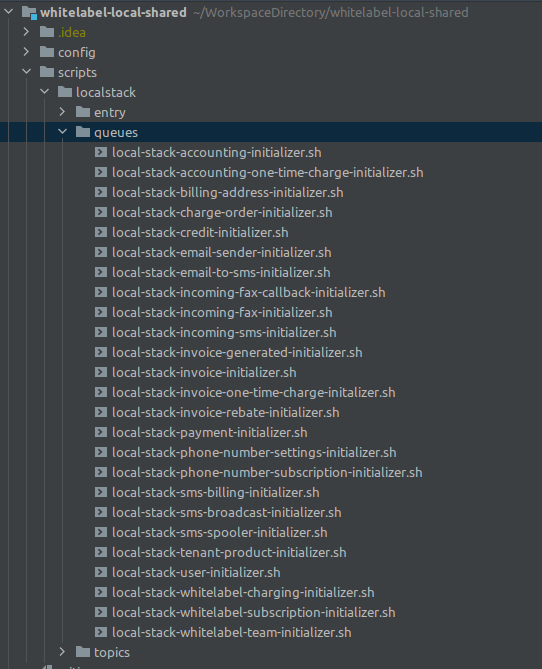
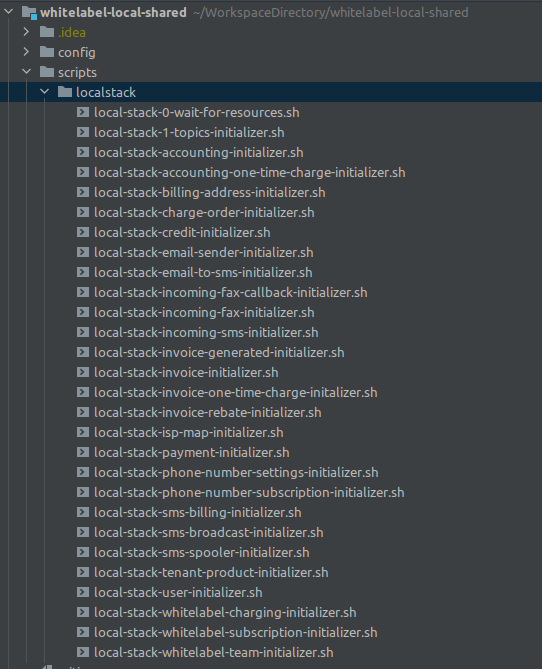
docs: commit as of Tuesday, 10 January, 2023 05:28:57 PM PST

Changed region(s): [[0.0, 0.1196, 1.0, 0.9865]]

diff --git a/📚 Learning Pages/Technical Work Learning Pages/Creating New Queue on Whitelabel-Local-Shared.md b/📚 Learning Pages/Technical Work Learning Pages/Creating New Queue on Whitelabel-Local-Shared.md
@@ -8,9 +8,12 @@ This page is about initializing a new [[Amazon SQS]] queue on the whitelabel-loc
 
 ## Instructions
 
-1. Open `whitelabel-local-shared` project and navigate to `scripts/localstack/queues`. Here you will see the initialization scripts for all the queues run on local-shared service.
+>[!Note:]
+>This part if for creating a queue only (where applications listens and polls on the queue).  
 
-![local shared queue directory](whitelabel-local-shared-queue-directory.png)
+1. Open `whitelabel-local-shared` project and navigate to `scripts/localstack`. Here you will see the initialization scripts for all the queues run on local-shared service.
+
+![[whitelabel-local-shared-queue-directory.png]]
 
 3. Find the appropriate initializer script (example: if you want to create a queue that is related to accounting, then choose `local-stack-accounting-initializer.sh`). 
 
@@ -30,4 +33,34 @@ awslocal sqs create-queue --queue-name Accounting-Develop-ProcessChargeRequest -
 ```
 >*Sample code for the queue initializer*
 
-Notice that 
+Notice that on the `deadLetterArn`, the name of the dead-letter-queue that we created first is present. When creating your own queue intializer then just also copy the name of the DLQ that you first created. 
+
+>[!Note:]
+>Follow our [[Codding Standard]] for creating [[Amazon SQS]] initializer. [See here for link to confluence.](https://utinternational.jira.com/wiki/spaces/SKB/pages/3250880513/AWS+Naming+Conventions+V2#Queue-Names-and-Topic-Names)
+
+
+
+# For creating a [[SNS Topic]] and Subscribing [[Amazon SQS]] on Local-shared
+
+You can view the SNS topics are being created on the directory: `scripts/localstack/local-stack-1-topics-initializer.sh` . Just follow the codding standard for naming convention and creation of topic on local-shared. 
+
+And for subscribing the existing queues to the created topic, see the script file:  `scripts/localstack/local-stack-whitelabel-subscription-initializer.sh` . 
+
+
+### Pattern
+
+1. Create the dead-letter-queue (DLQ)
+2. Create the queue
+3. Create the `sns subscribe` to subscribe the queue to the created topic.
+
+```bash
+# create DLQ
+awslocal sqs create-queue --queue-name MainApp-Develop-BatchOverdraftChargeProcessed-DLQ  
+
+# create queue and attach created DLQ
+awslocal sqs create-queue --queue-name MainApp-Develop-BatchOverdraftChargeProcessed --attributes '{ "RedrivePolicy": "{\"deadLetterTargetArn\":\"arn:aws:sqs:us-east-1:123456789012:MainApp-Develop-BatchOverdraftChargeProcessed-DLQ\",\"maxReceiveCount\":\"4\"}", "MessageRetentionPeriod": "259200" }'  
+
+# subscribe queue to SNS topic
+awslocal sns subscribe --topic-arn arn:aws:sns:us-east-1:123456789012:WLDevelop-Credit-OverdraftChargeRequestProcessed --protocol sqs --notification-endpoint http://localhost:4576/queue/MainApp-Develop-BatchOverdraftChargeProcessed
+```
+>Sample code for creating queue and subscribing it to topic.

diff --git a/📚 Learning Pages/Technical Work Learning Pages/Initializing new Queues on Microservices.md b/📚 Learning Pages/Technical Work Learning Pages/Initializing new Queues on Microservices.md
@@ -1,0 +1,7 @@
+
+The code for initializing [[Amazon SQS]] for Staging and Production Environment are located at the `deployment` directory of the application. And inside the queue directory: `java/com/synacy/accountingdeployment/application/queue`. `ProductionQueues` are for initializing the queues for **Production**. And `StagingQueues` are for initializing queues on **Staging** environment.
+
+One merged to the main branch, our deployment pipeline on AWS will automatically initialize these queues.
+
+>[!Reminder]
+>We must also create queues for our development environment for testing on our local machines. See [[Creating New Queue on Whitelabel-Local-Shared]] for reference.
